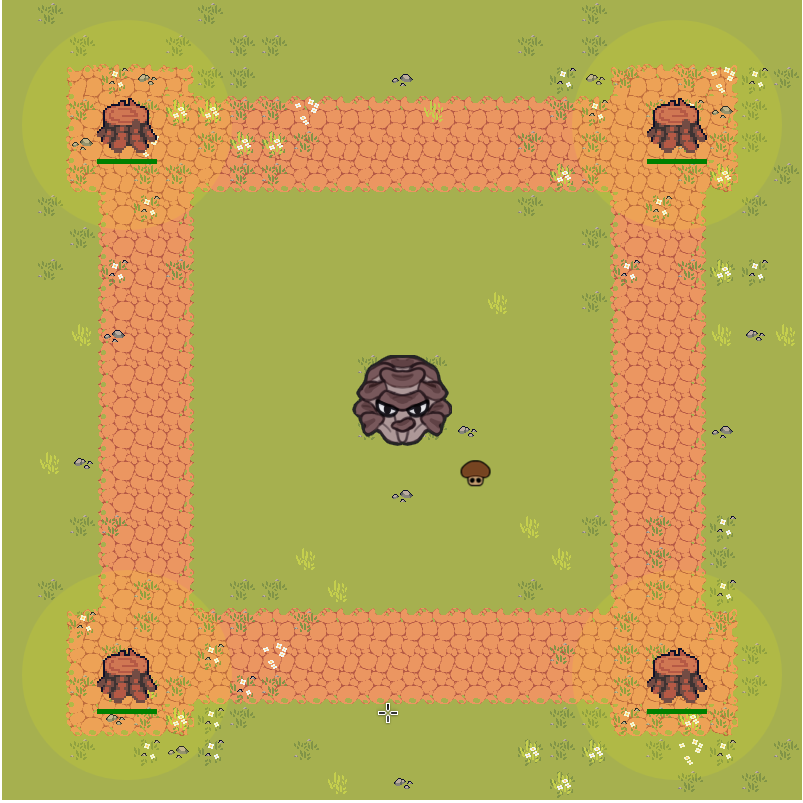
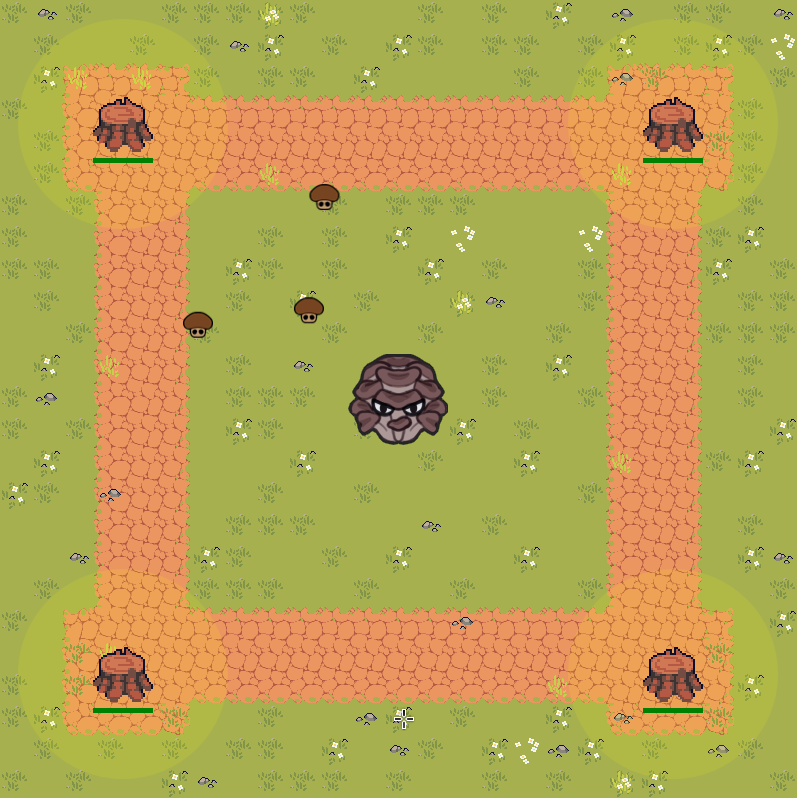
add decorations to maitake level

diff --git a/bundle.js b/bundle.js
@@ -1785,9 +1785,9 @@
 	    update: function() {
 	        this.relics.forEach(relic => relic.display());
 	        this.mushrooms.forEach(mushroom => mushroom.display());
-	        // this.gnome.display();
-	        // this.gnomeProjectiles.forEach(projectile => projectile.display());
-	        // this.mushroomProjectiles.forEach(projectile => projectile.display());
+	        this.gnome.display();
+	        this.gnomeProjectiles.forEach(projectile => projectile.display());
+	        this.mushroomProjectiles.forEach(projectile => projectile.display());
 
 	        this.detectCollisions();
 
@@ -2341,7 +2341,7 @@
 	        ];
 	    },
 	    display: function() {
-	        // this.components.forEach(comp => comp.display());
+	        this.components.forEach(comp => comp.display());
 	    }
 	};
 
@@ -2373,6 +2373,7 @@
 	            case 1:
 	                entityManager$1.update();
 	                inputManager.processInputs();
+	                hudManager.display();
 	                break;
 	            case 2:
 	                endStateManager.showMessageCenter(`You Win!`);
@@ -2523,35 +2524,33 @@
 	                'ggggggggggggggggggggggggg', 
 	            ],
 	            decoration: [
-	                '-G----G-----------G------',
-	                '--G--G-GG-------G-G------',
-	                '---gs-GG----S----gsG-GFgG',
-	                '--G-GffGGF---A---Gg-GgSG-',
-	                '--S-F-GffG------G-G--GGG-',
-	                '--G-GG-GG--------fG--Gf-G',
-	                '-G--g-----------G---g--G-',
-	                '--G---------------G------',
-	                '-G-g-G-------------g-Gfg-',
-	                '---------------A--G------',
-	                '--AS------------------AsA',
-	                '-----------GGG-----------',
-	                '-----------GGG-----------',
-	                '-----------GGGs-------S--',
-	                '-As----------------------',
-	                '------------S------------',
-	                '--GG------------A-G-G-g--',
-	                '---------A-------A--G-G--',
-	                '-G--G--GG-A-----G---G-g--',
-	                '--g-G-GG-G---------G--G--',
-	                '---G--g-F--------G-GG--G-',
-	                '--GgfG-gG----------G-S-G-',
-	                '---sGfgG---------GGgGfG--',
-	                '--G-gSg--G------fGf-GFg-G',
-	                '----------A-s----f---G-G-',
+	                'GsG--GGGfG---G-G-g-S-GG-s',
+	                '-G--G-Gsg-G-gG-GG-Gg-GgGF',
+	                '-gA-A-G-GG-g----G-GSG---G',
+	                'G----------------------G',
+	                '-G--------------------GG-',
+	                '-G------A----------A---G',
+	                'G-G-------G-GGG--------G-',
+	                'G-------G-G-g-F---F---Gg-',
+	                'GG-----gG-G--g-G--G---g-G',
+	                '-G-----G-g-G--fs--G----GG',
+	                '--G---G---G--G---G----GGG',
+	                '-g-A---G-s-----G-g-----G-',
+	                'GS-----GGG-G-s-G--G----G-',
+	                'G-G----gG--G--g-G-------g',
+	                '-g-------g---G--g--A--Gg-',
+	                'gG-S----G--G------G------',
+	                '-------GGG---s-G-------G-',
+	                '--s---gG--G-g---g------gs',
+	                '-G----GGG--G--G---G-----Gf',
+	                'G-------------S---------g',
+	                '--GA------------------G--',
+	                'G-G--------------A-----g-',
+	                'Gg---G--G--Sg-G--g-s--G--',
+	                '-G-G-G-GG-g-sG-gFSg-G-SG-',
+	                'G-G--gs-GGG-G--G-G-fg---G',
 	            ]
 	        },
-	        
-
 	    ],
 	    display: function() {
 	        const map = game$1.state.LEVEL;

diff --git a/src/managers/tilemapManager.js b/src/managers/tilemapManager.js
@@ -88,35 +88,33 @@ const tilemapManager = {
                 'ggggggggggggggggggggggggg', 
             ],
             decoration: [
-                '-G----G-----------G------',
-                '--G--G-GG-------G-G------',
-                '---gs-GG----S----gsG-GFgG',
-                '--G-GffGGF---A---Gg-GgSG-',
-                '--S-F-GffG------G-G--GGG-',
-                '--G-GG-GG--------fG--Gf-G',
-                '-G--g-----------G---g--G-',
-                '--G---------------G------',
-                '-G-g-G-------------g-Gfg-',
-                '---------------A--G------',
-                '--AS------------------AsA',
-                '-----------GGG-----------',
-                '-----------GGG-----------',
-                '-----------GGGs-------S--',
-                '-As----------------------',
-                '------------S------------',
-                '--GG------------A-G-G-g--',
-                '---------A-------A--G-G--',
-                '-G--G--GG-A-----G---G-g--',
-                '--g-G-GG-G---------G--G--',
-                '---G--g-F--------G-GG--G-',
-                '--GgfG-gG----------G-S-G-',
-                '---sGfgG---------GGgGfG--',
-                '--G-gSg--G------fGf-GFg-G',
-                '----------A-s----f---G-G-',
+                'GsG--GGGfG---G-G-g-S-GG-s',
+                '-G--G-Gsg-G-gG-GG-Gg-GgGF',
+                '-gA-A-G-GG-g----G-GSG---G',
+                'G----------------------G',
+                '-G--------------------GG-',
+                '-G------A----------A---G',
+                'G-G-------G-GGG--------G-',
+                'G-------G-G-g-F---F---Gg-',
+                'GG-----gG-G--g-G--G---g-G',
+                '-G-----G-g-G--fs--G----GG',
+                '--G---G---G--G---G----GGG',
+                '-g-A---G-s-----G-g-----G-',
+                'GS-----GGG-G-s-G--G----G-',
+                'G-G----gG--G--g-G-------g',
+                '-g-------g---G--g--A--Gg-',
+                'gG-S----G--G------G------',
+                '-------GGG---s-G-------G-',
+                '--s---gG--G-g---g------gs',
+                '-G----GGG--G--G---G-----Gf',
+                'G-------------S---------g',
+                '--GA------------------G--',
+                'G-G--------------A-----g-',
+                'Gg---G--G--Sg-G--g-s--G--',
+                '-G-G-G-GG-g-sG-gFSg-G-SG-',
+                'G-G--gs-GGG-G--G-G-fg---G',
             ]
         },
-        
-
     ],
     display: function() {
         const map = game.state.LEVEL;

diff --git a/src/managers/entityManager.js b/src/managers/entityManager.js
@@ -132,9 +132,9 @@ const entityManager = {
     update: function() {
         this.relics.forEach(relic => relic.display());
         this.mushrooms.forEach(mushroom => mushroom.display());
-        // this.gnome.display();
-        // this.gnomeProjectiles.forEach(projectile => projectile.display());
-        // this.mushroomProjectiles.forEach(projectile => projectile.display());
+        this.gnome.display();
+        this.gnomeProjectiles.forEach(projectile => projectile.display());
+        this.mushroomProjectiles.forEach(projectile => projectile.display());
 
         this.detectCollisions();
 

diff --git a/src/managers/hudManager.js b/src/managers/hudManager.js
@@ -15,7 +15,7 @@ const hudManager = {
         ]
     },
     display: function() {
-        // this.components.forEach(comp => comp.display());
+        this.components.forEach(comp => comp.display());
     }
 }
 export default hudManager;
